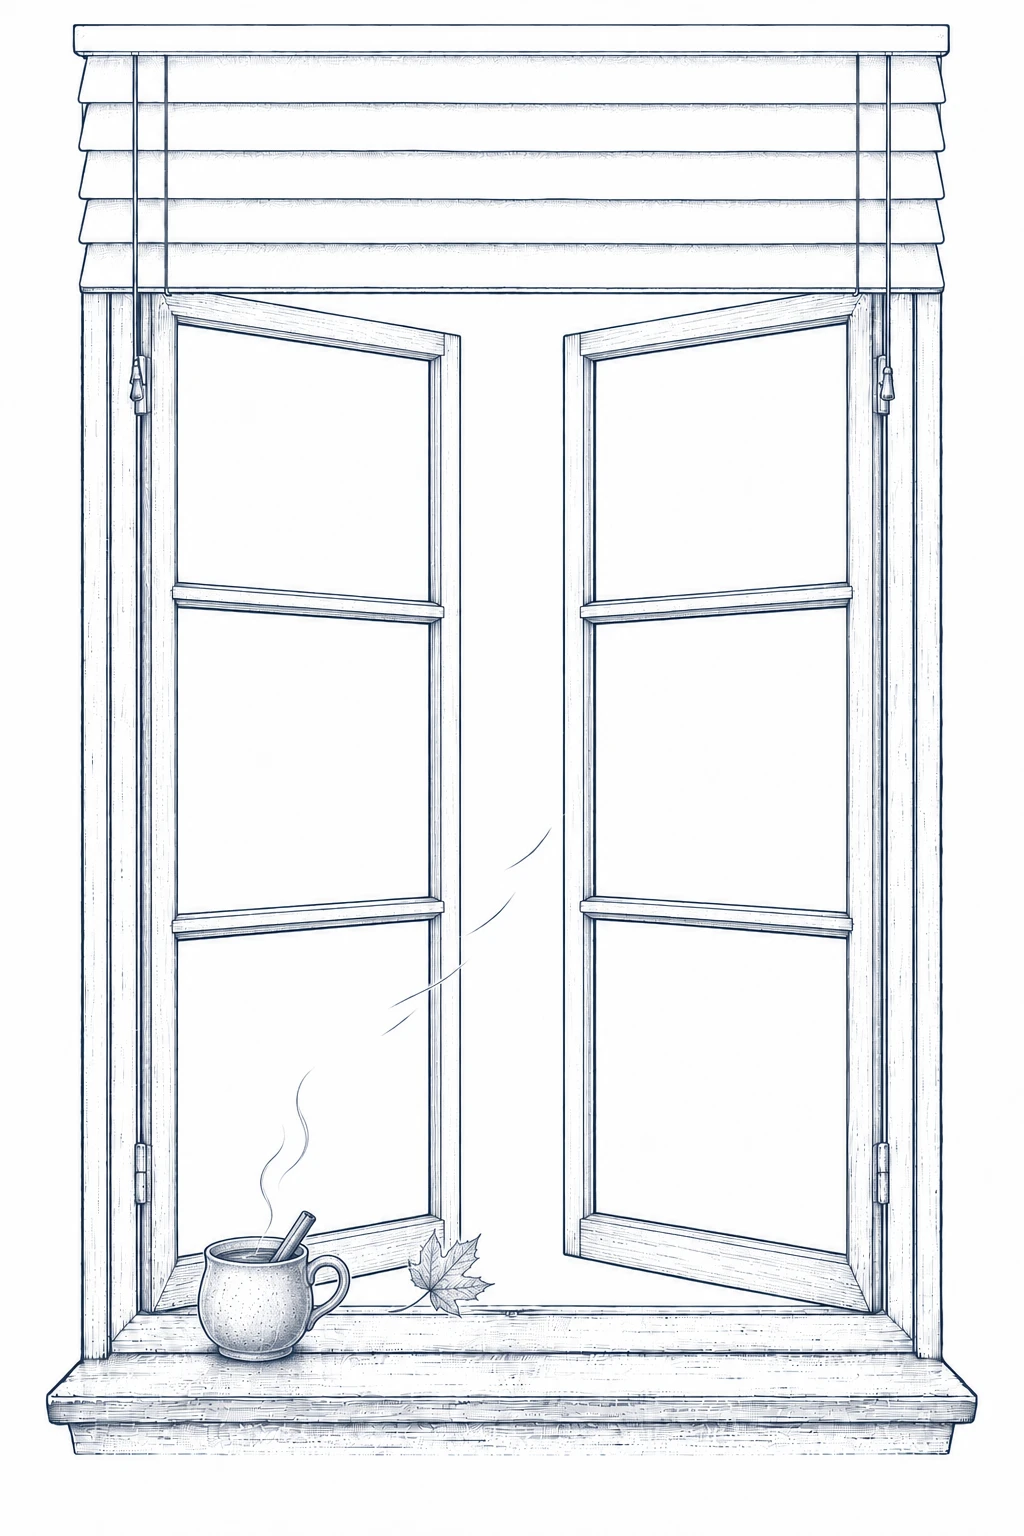
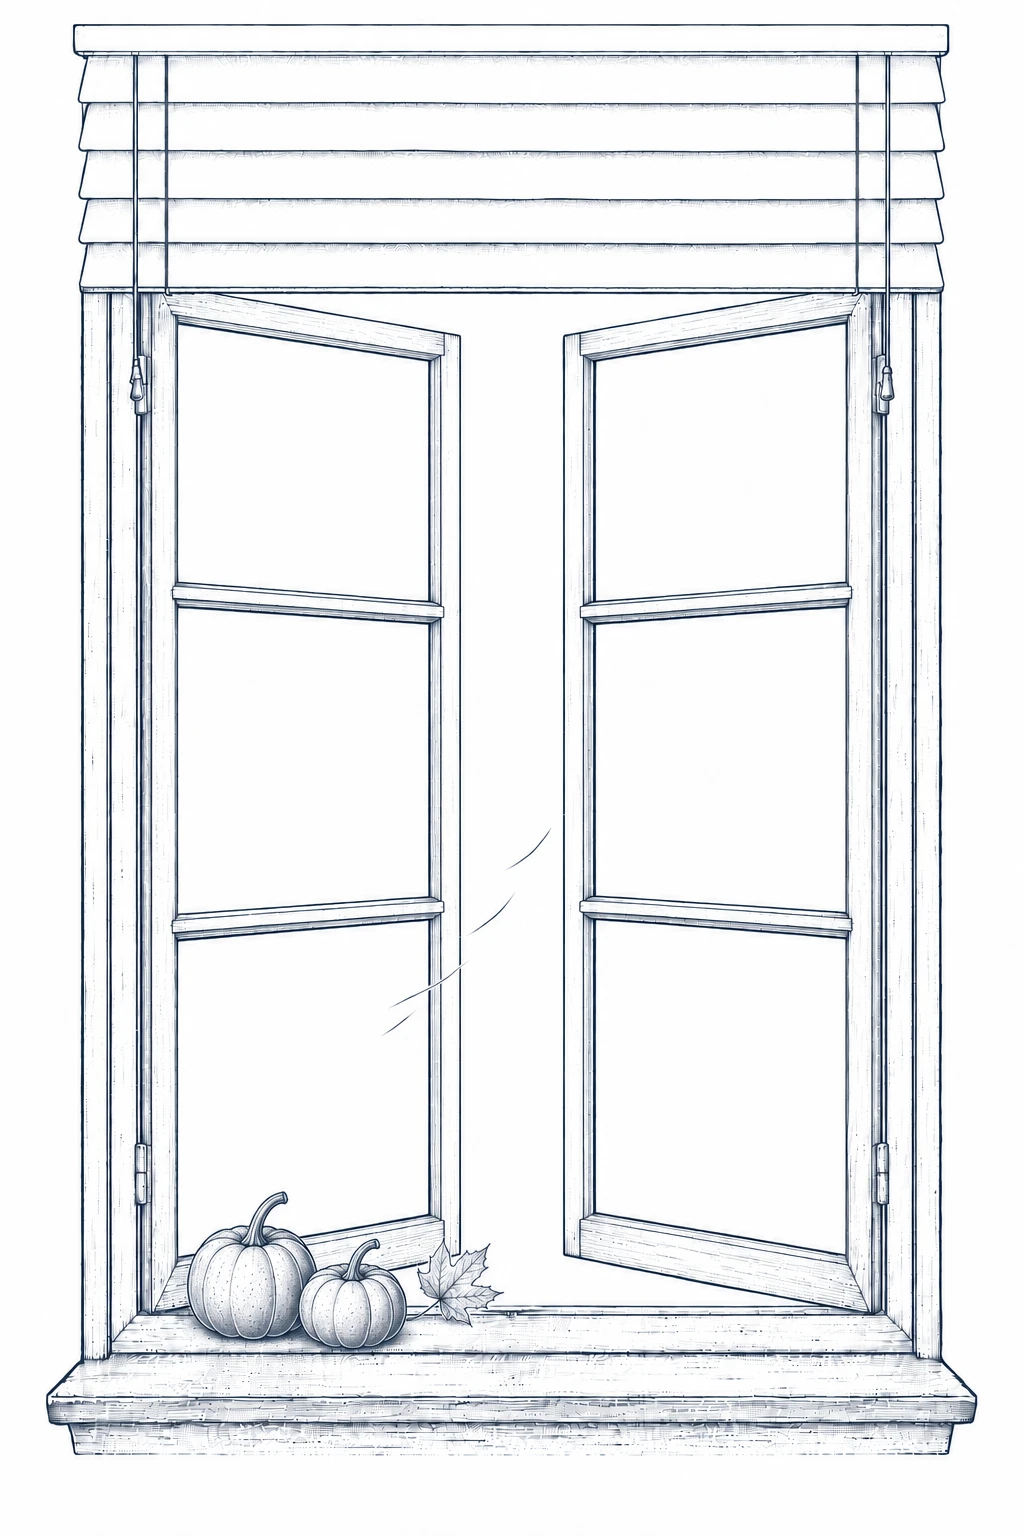
docs(ink): autumn window gets two small pumpkins instead of mulled wine

diff --git a/design-system/INK_DRAFT.md b/design-system/INK_DRAFT.md
@@ -224,7 +224,7 @@ Make a night version of this exact image, same composition: same apple tree, ben
 
 **初夏 · 窗层（2026-10-27）**：`docs/design/ink/earlysummer-layer-window-{day,night}.webp`（1024×1536）。跟春天是同一扇推开的窗、同样的风线，窗台上换成一杯高脚冰饮（冰块、柠檬片、薄荷叶）。第一版杯子太靠里、站在推开的窗扇底边上，透视不对，阿萌重出了一版把杯子挪到窗台前沿（已替换）。窗扇位置跟春天一致，所以春天量好的景遮罩初夏可以直接共用。（ideas 里原来写初夏「窗推开一条缝」，实际画成跟春天一样整扇推开，就按这样）
 
-**秋 · 窗层（2026-10-27）**：`docs/design/ink/autumn-layer-window-{day,night}.webp`（1024×1536）。同一扇推开的窗、同样的风线，窗台上是一杯热红酒（肉桂棒、冒热气）和一片吹进来的枫叶。春、初夏、秋三张开着的窗共用一套窗扇位置
+**秋 · 窗层（2026-10-27）**：`docs/design/ink/autumn-layer-window-{day,night}.webp`（1024×1536）。同一扇推开的窗、同样的风线，窗台上是一大一小两个小南瓜和一片吹进来的枫叶（第一版是一杯热红酒，阿萌嫌饮品没意思，换成南瓜，已替换）。春、初夏、秋三张开着的窗共用一套窗扇位置
 
 **盛夏 · 窗层（2026-10-27）**：`docs/design/ink/midsummer-layer-window-{day,night}.webp`（1024×1536）。窗关着、玻璃干净，窗台上一只玻璃碗装两块西瓜、搭一把小叉子。窗格比例跟三张开着的窗一样（是那两扇窗关上的样子：上格高、横档在约 600 / 920 处），**跟初冬窗层的六格不一样**（初冬横档在约 520 / 925），所以景遮罩要按这张单独量，不能套初冬的
 
